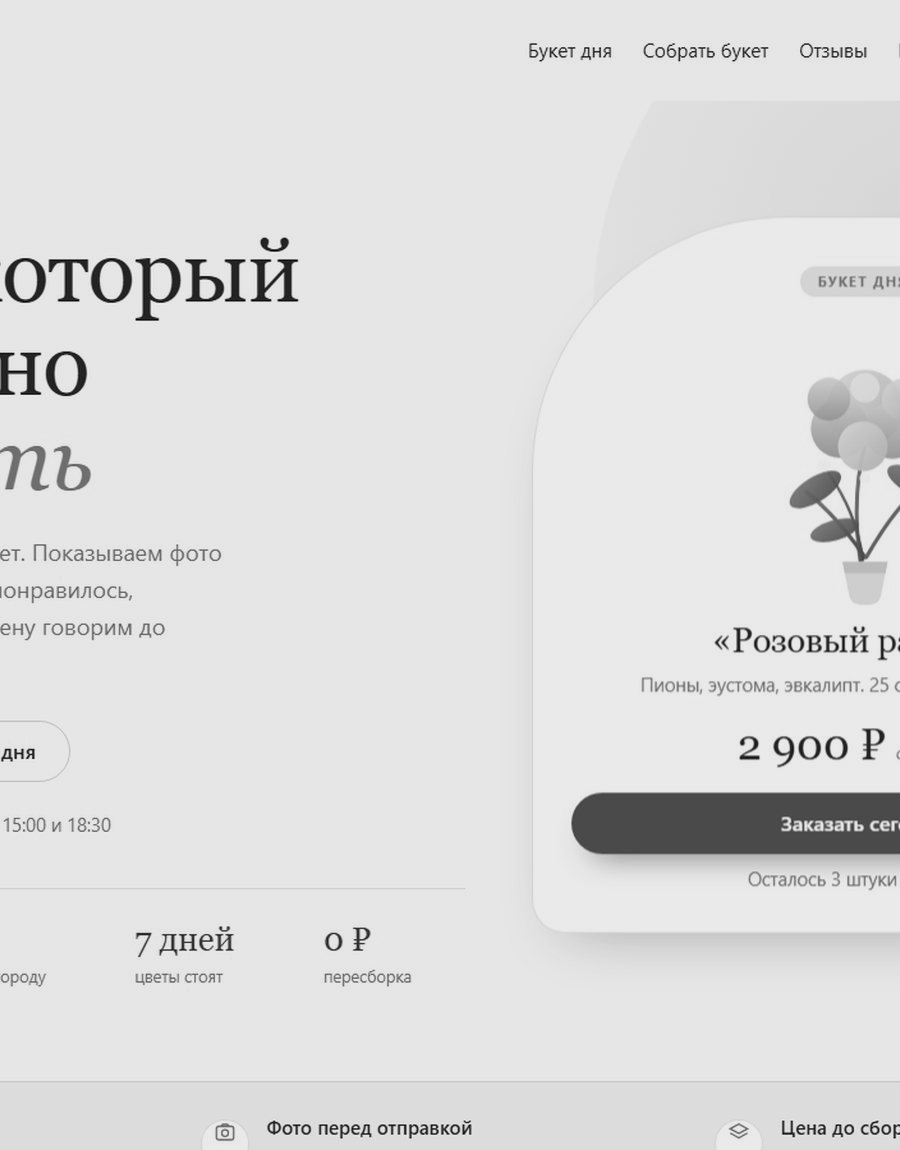
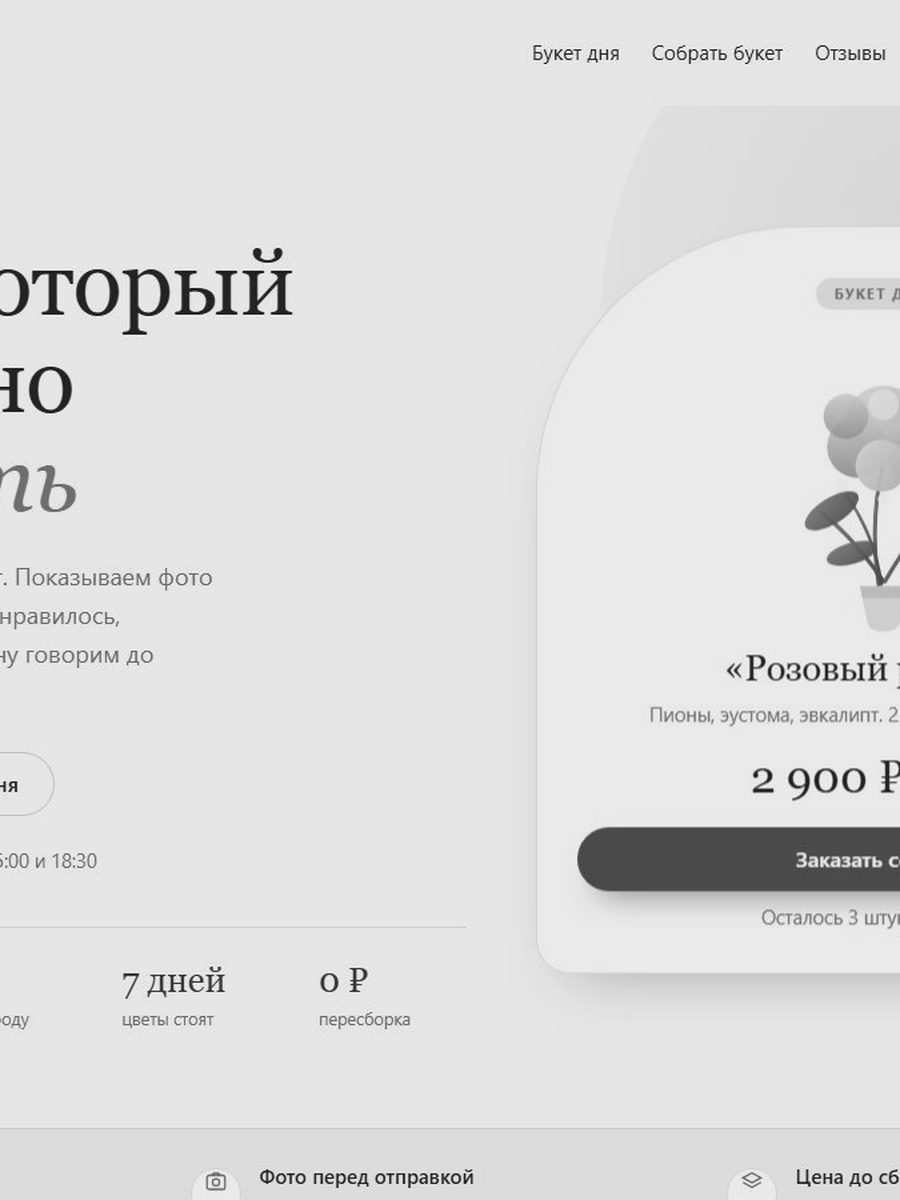
Вертикальные кадры в портфолио: перегенерированы из скриншотов, без lazy

diff --git a/index.html b/index.html
@@ -182,7 +182,7 @@
 <section class="sec sec--tight">
   <div class="shell">
     <a class="tall reveal" href="https://mensori-dev.github.io/demos/flowers/" target="_blank" rel="noopener">
-      <img src="assets/works/tall-flowers.jpg" alt="Сайт цветочной мастерской" loading="lazy">
+      <img src="assets/works/tall-flowers.jpg" alt="Сайт цветочной мастерской">
       <span class="tall__cap">Сборка букета<br>по поводу и бюджету</span>
     </a>
   </div>

diff --git a/raboty.html b/raboty.html
@@ -124,7 +124,7 @@
 <section class="sec sec--tight">
   <div class="shell">
     <a class="tall reveal" href="https://mensori-dev.github.io/demos/salon/" target="_blank" rel="noopener">
-      <img src="assets/works/tall-salon.jpg" alt="Сайт салона красоты" loading="lazy">
+      <img src="assets/works/tall-salon.jpg" alt="Сайт салона красоты">
       <span class="tall__cap">Салон красоты:<br>запись в один экран</span>
     </a>
   </div>
